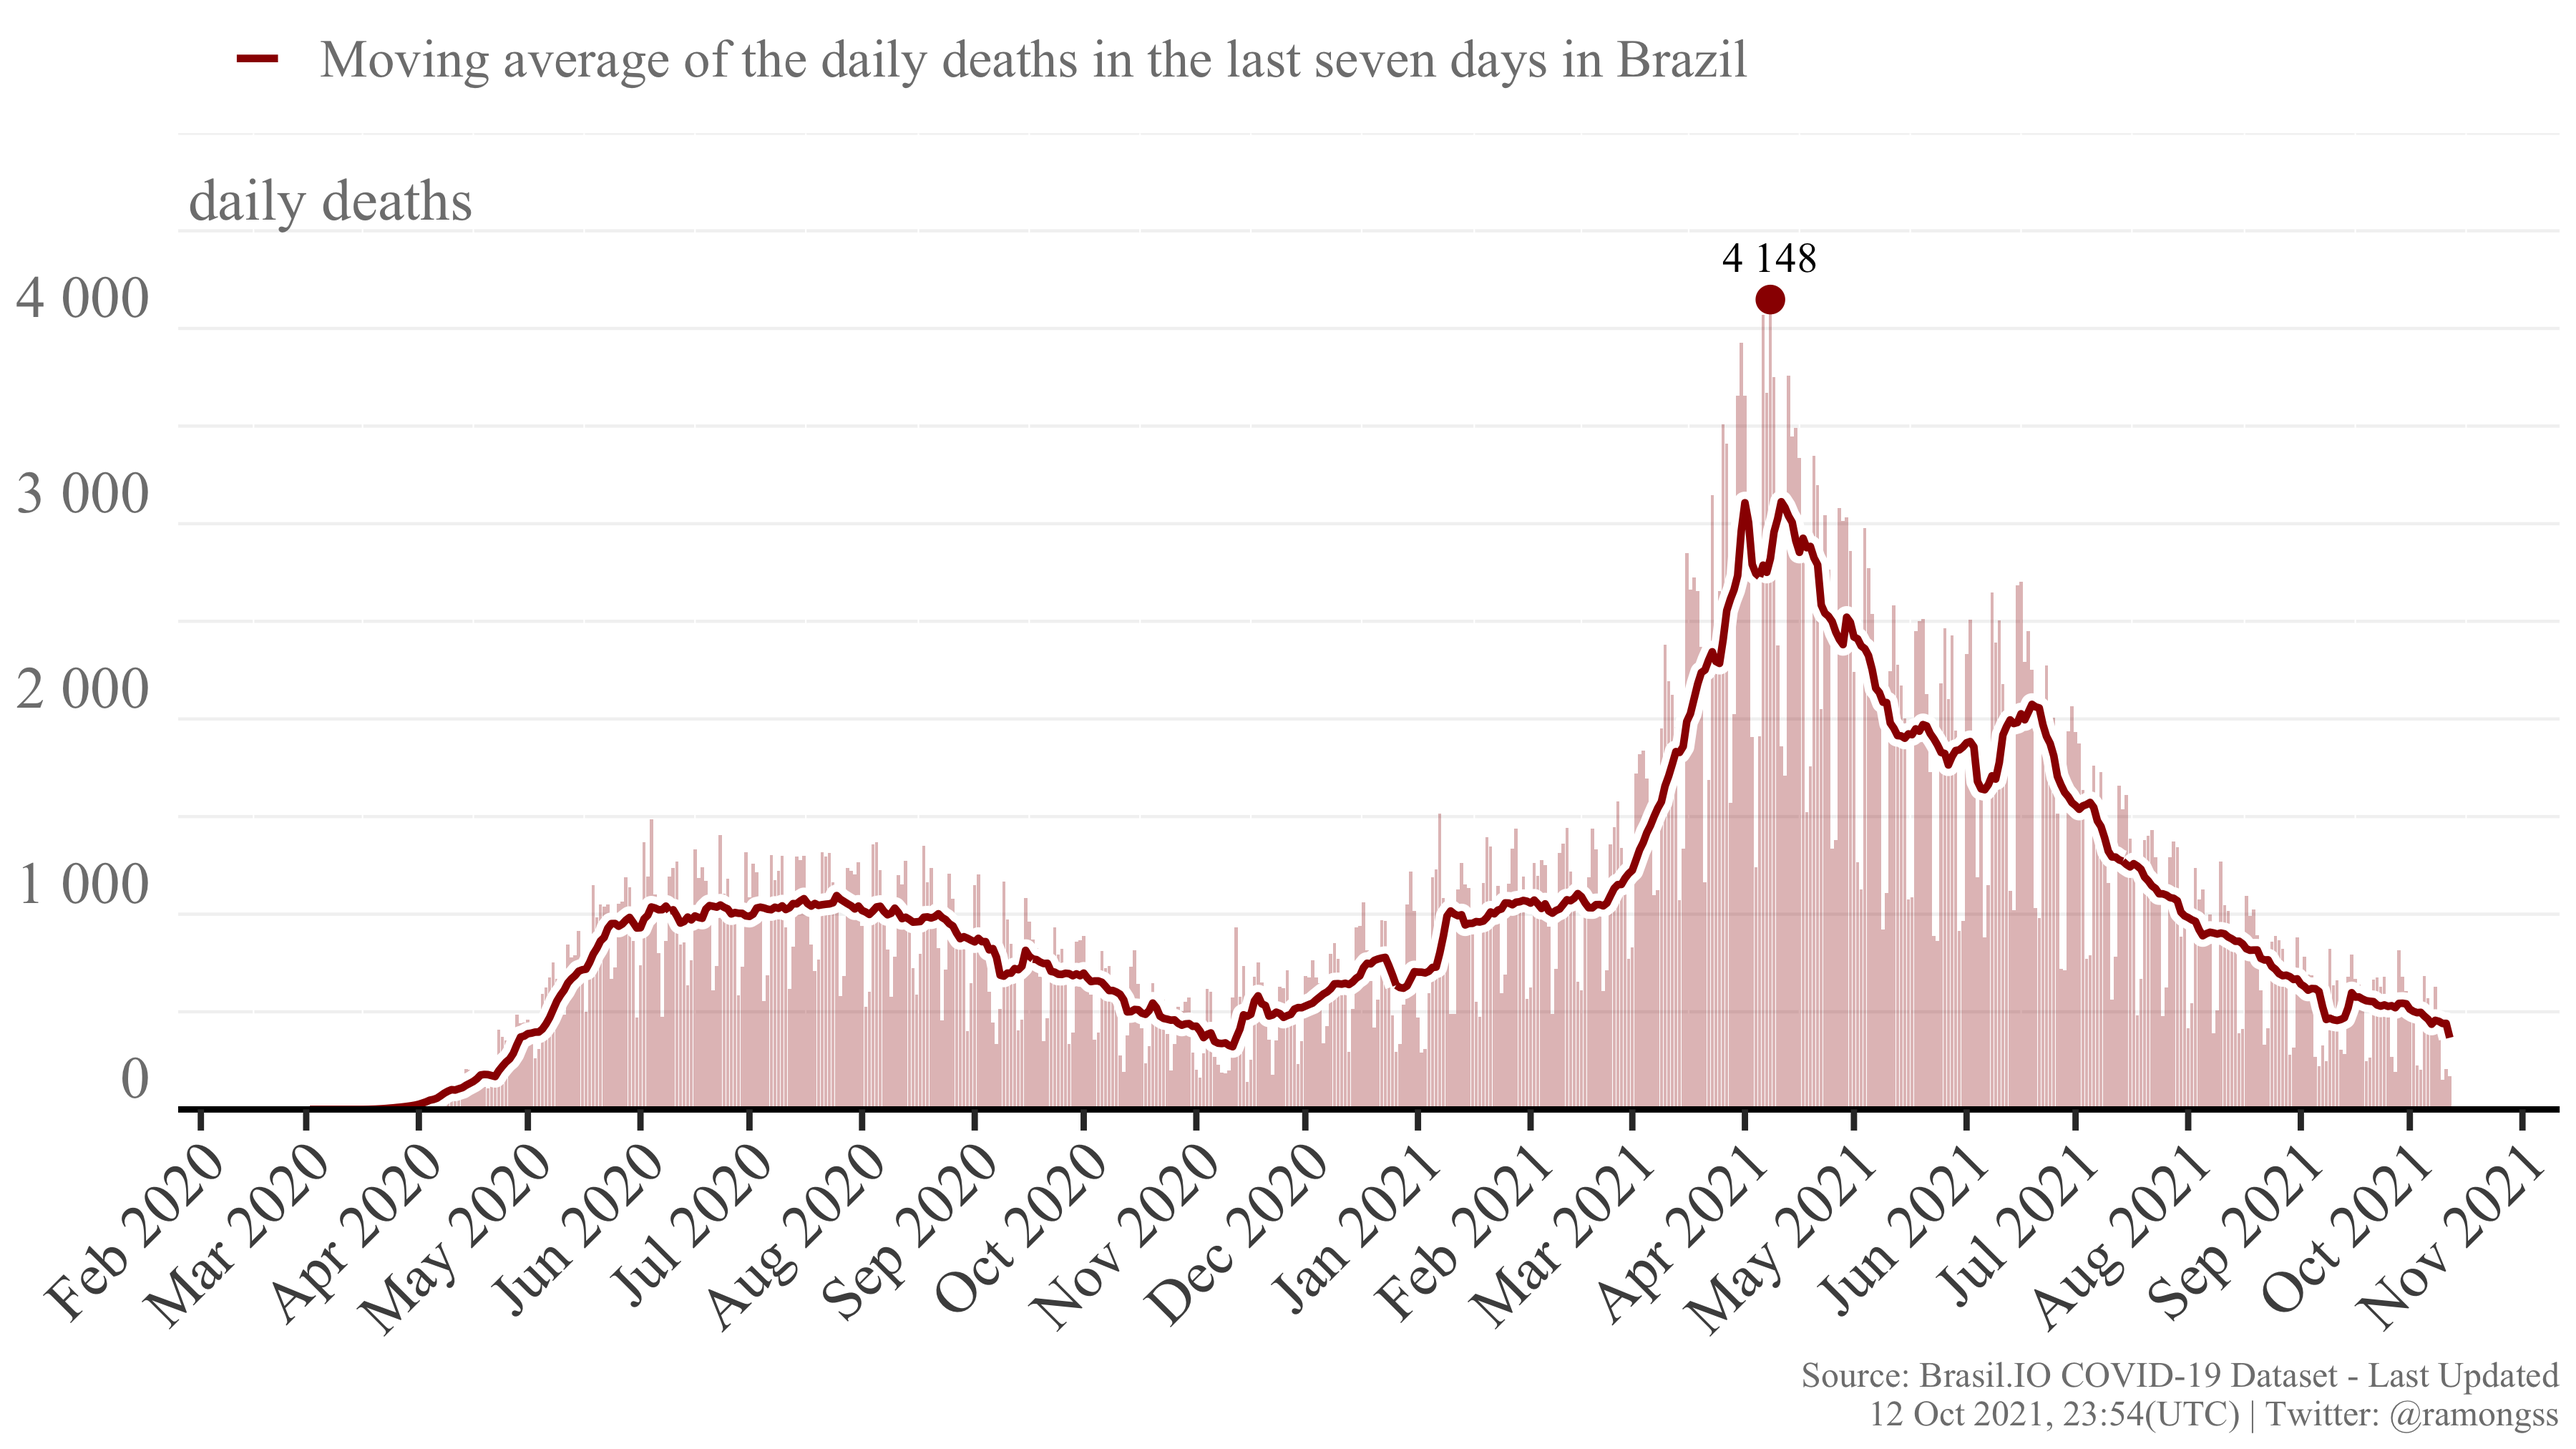
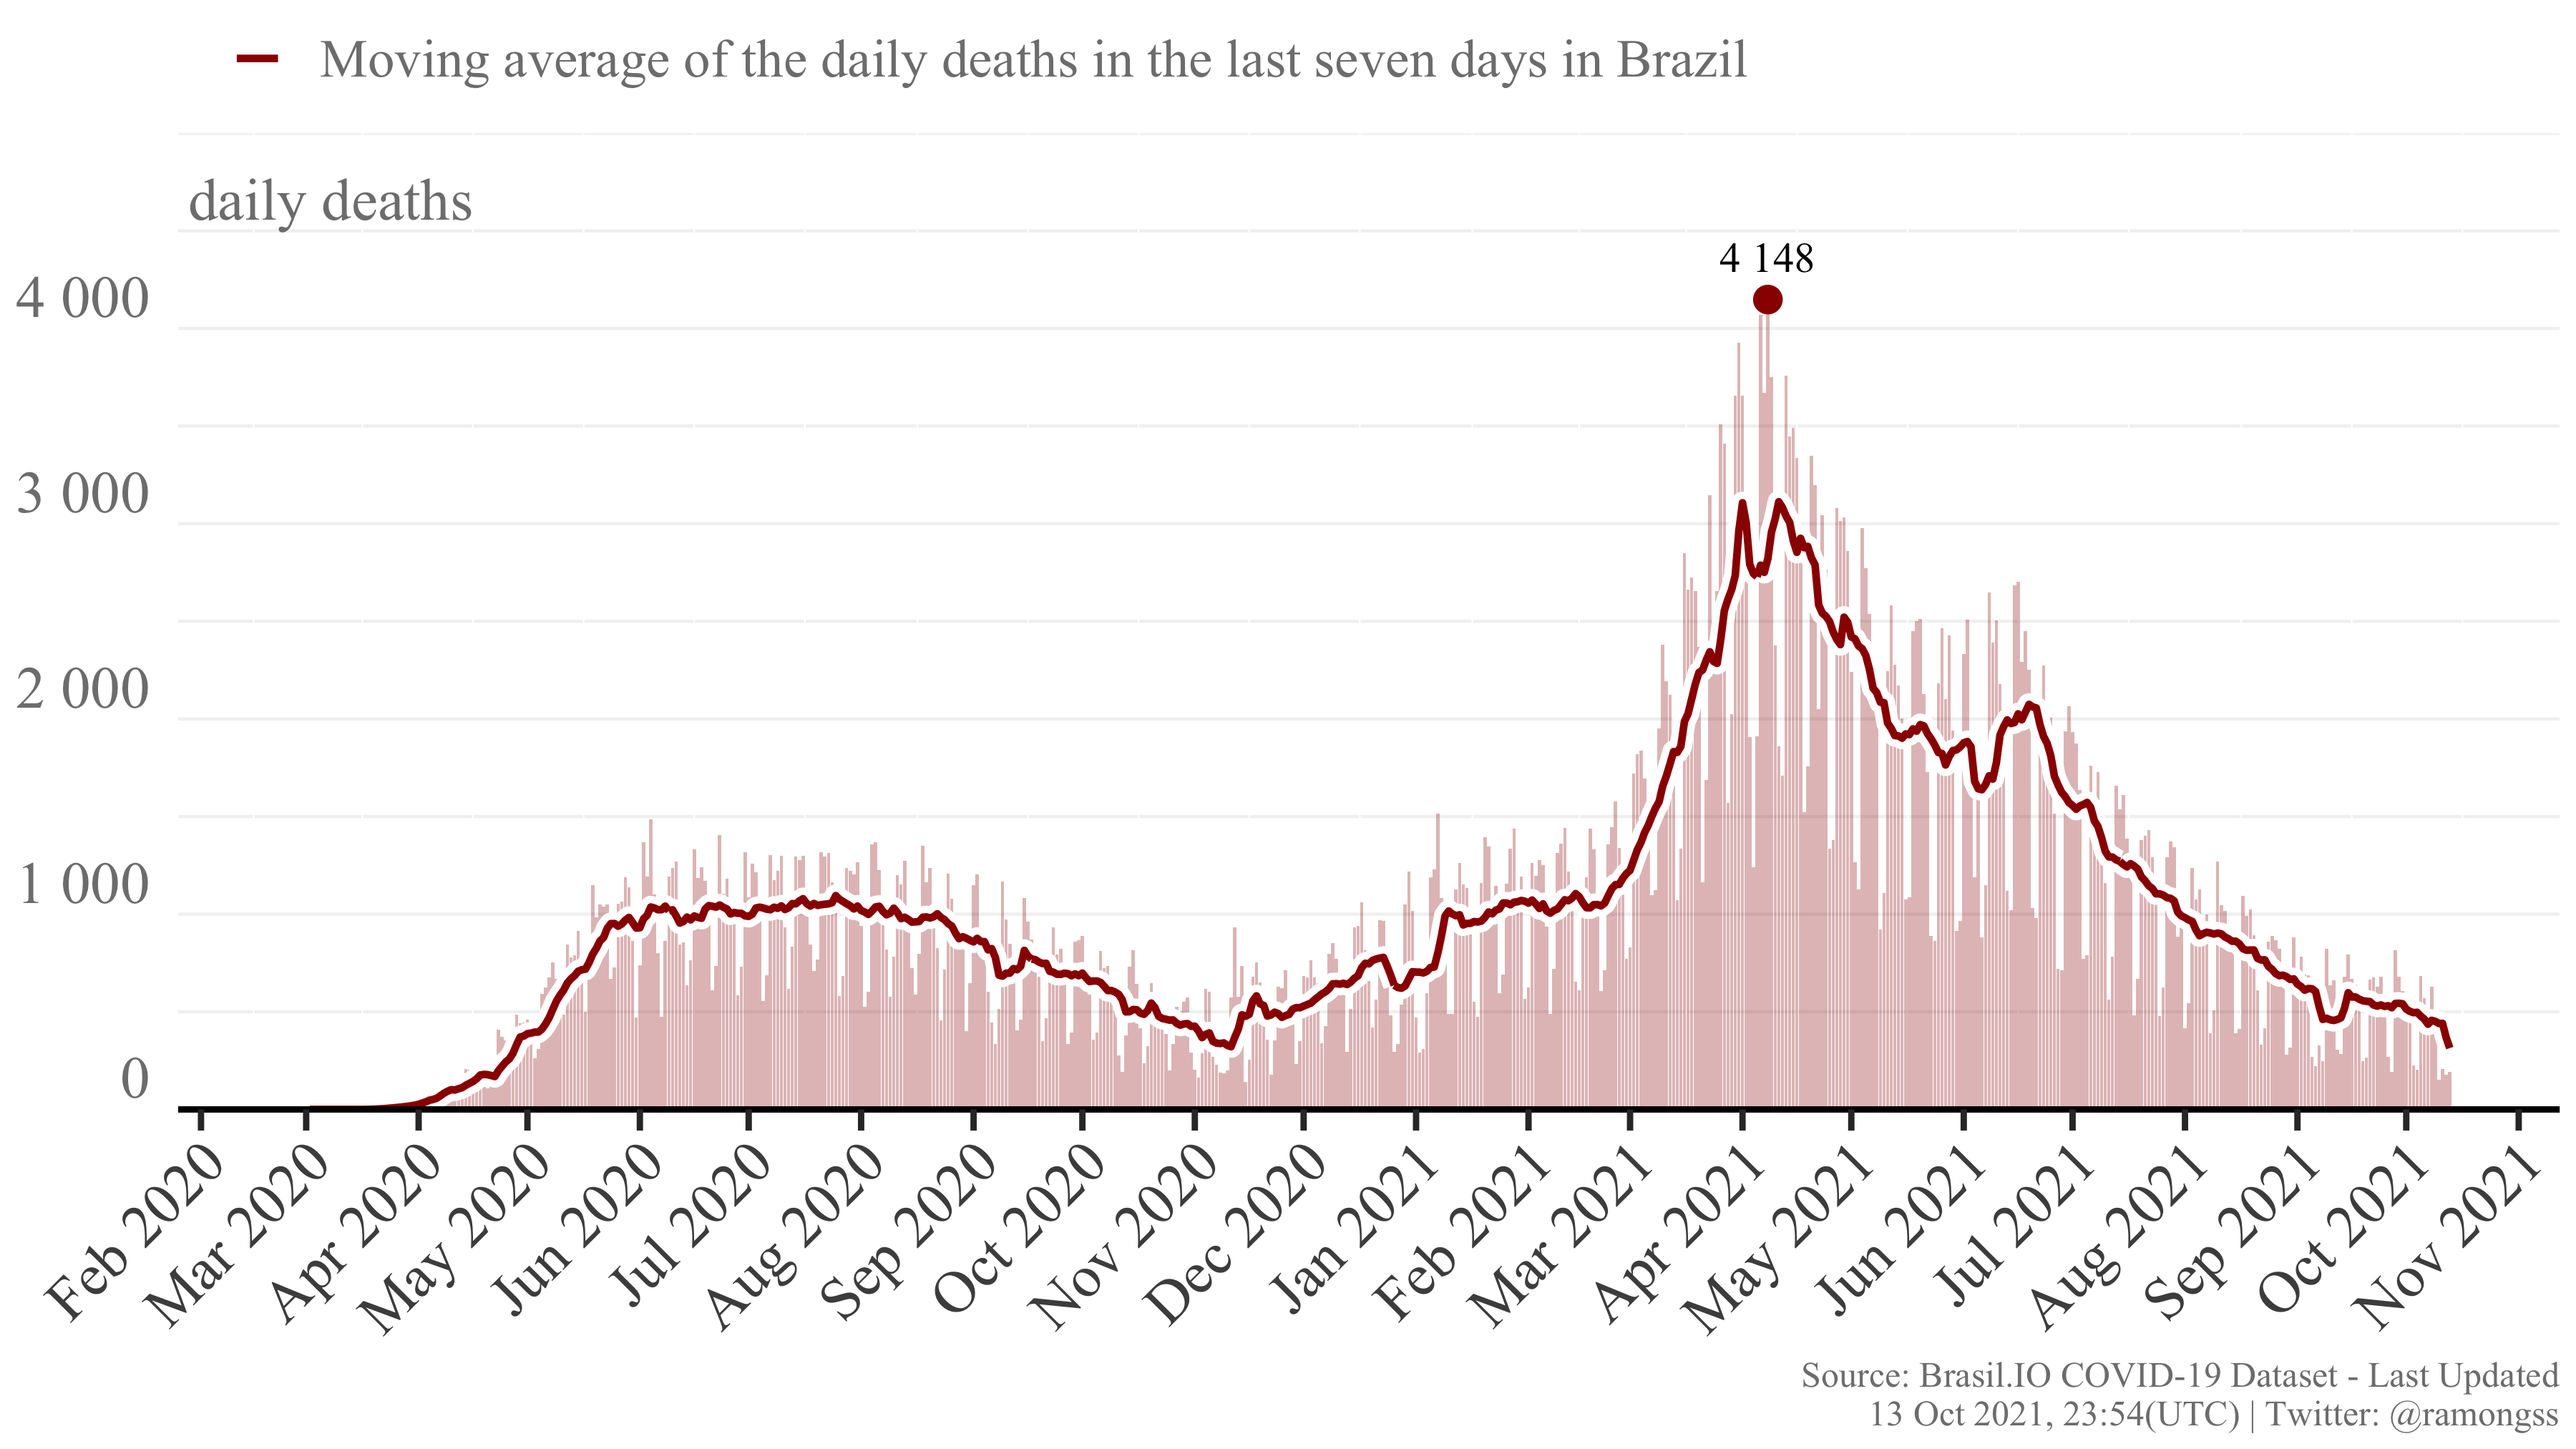
Re-build README.Rmd

diff --git a/README.md b/README.md
@@ -27,8 +27,8 @@ download_brasilio_table <- function(dataset = "covid19", table_name){
 
 ## COVID-19 Confirmed cases
 
-Currently, Brazil has a total of **21,594,660** confirmed cases at **12
-Oct, 2021**, with **7,308** new confirmed cases. The daily maximum
+Currently, Brazil has a total of **21,602,827** confirmed cases at **13
+Oct, 2021**, with **7,944** new confirmed cases. The daily maximum
 incidence was **124,878** confirmed cases at **18 Sep, 2021**. Here
 follows the Figure showing the confirmed case incidence as the bars, and
 the line as the moving average of the last 7 days.
@@ -37,8 +37,8 @@ the line as the moving average of the last 7 days.
 
 ## COVID-19 Deaths
 
-Currently, Brazil has a total of **601,660** deaths at **12 Oct, 2021**,
-with **169** new deaths. The daily maximum deaths incidence was
+Currently, Brazil has a total of **601,859** deaths at **13 Oct, 2021**,
+with **192** new deaths. The daily maximum deaths incidence was
 **4,148** deaths at **08 Apr, 2021**. Here follows the Figure showing
 the deaths incidence as the bars, and the line as the moving average of
 the last 7 days.
@@ -49,4 +49,4 @@ the last 7 days.
 
 This page is daily updated automatically using Github Actions.
 
-*Last update: 12 Oct 2021, 23:54 (UTC).*
+*Last update: 13 Oct 2021, 23:54 (UTC).*
